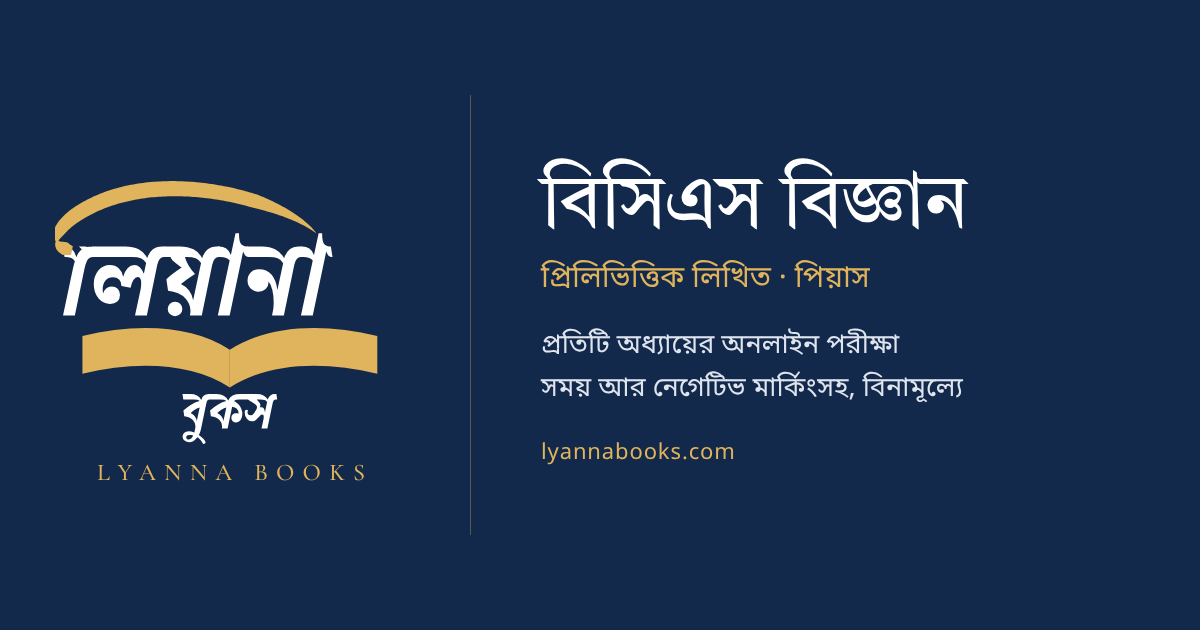
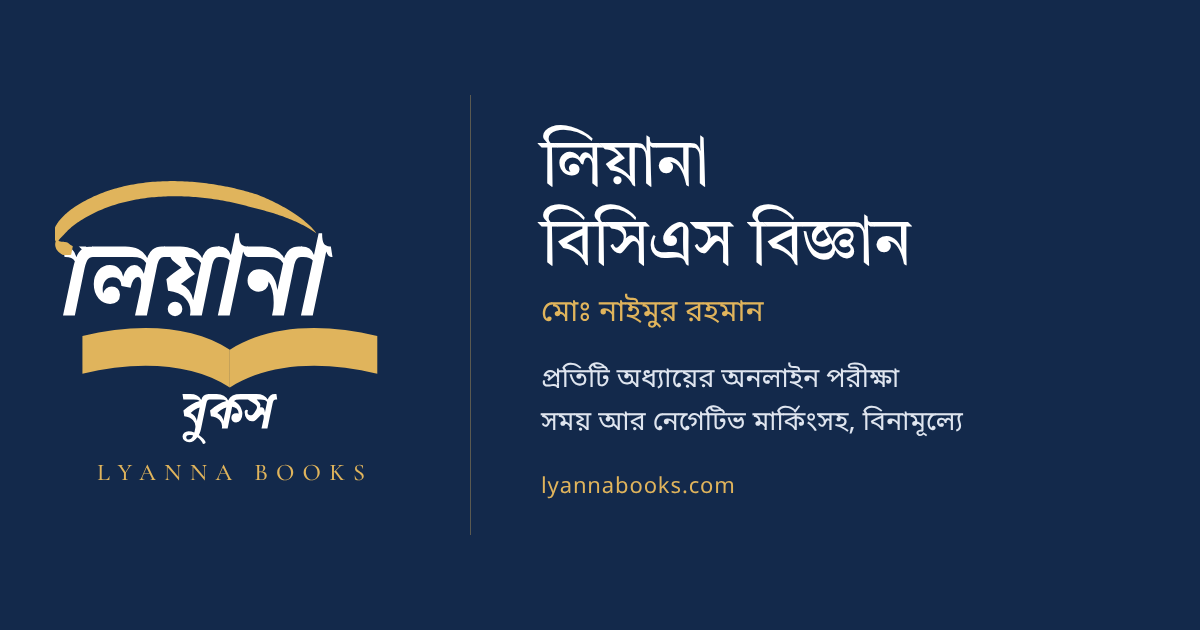
Home page: real book cover, book name লিয়ানা বিসিএস বিজ্ঞান, author মোঃ নাইমুর রহমান
Claude-Session: https://claude.ai/code/session_01Cu6FCiBSHDKpGcy4JYCviQ

Changed region(s): [[0.4317, 0.181, 0.8017, 0.7238], [0.4317, 0.754, 0.6167, 0.7841]]

diff --git a/index.html b/index.html
@@ -5,12 +5,12 @@
 <meta name="theme-color" content="#13294b">
 <meta name="viewport" content="width=device-width,initial-scale=1,viewport-fit=cover">
 <title>লিয়ানা বুকস · Lyanna Books</title>
-<meta name="description" content="লিয়ানা বুকস: বিসিএস বিজ্ঞান বই (লেখক পিয়াস) আর প্রতিটি অধ্যায়ের অনলাইন পরীক্ষা।">
+<meta name="description" content="লিয়ানা বুকস: লিয়ানা বিসিএস বিজ্ঞান বই (লেখক মোঃ নাইমুর রহমান) আর প্রতিটি অধ্যায়ের অনলাইন পরীক্ষা।">
 <link rel="canonical" href="https://lyannabooks.com/">
 <meta property="og:type" content="website">
 <meta property="og:site_name" content="লিয়ানা বুকস">
-<meta property="og:title" content="বিসিএস বিজ্ঞান · লিয়ানা বুকস">
-<meta property="og:description" content="প্রিলিভিত্তিক লিখিত বিসিএস বিজ্ঞান বই, লেখক পিয়াস। প্রতিটি অধ্যায়ের অনলাইন পরীক্ষা সময় আর নেগেটিভ মার্কিংসহ, বিনামূল্যে।">
+<meta property="og:title" content="লিয়ানা বিসিএস বিজ্ঞান · লিয়ানা বুকস">
+<meta property="og:description" content="লিয়ানা বিসিএস বিজ্ঞান বই, লেখক মোঃ নাইমুর রহমান। প্রতিটি অধ্যায়ের অনলাইন পরীক্ষা সময় আর নেগেটিভ মার্কিংসহ, বিনামূল্যে।">
 <meta property="og:url" content="https://lyannabooks.com/">
 <meta property="og:image" content="https://lyannabooks.com/img/og.png">
 <meta property="og:image:width" content="1200">
@@ -21,7 +21,7 @@
 <script type="application/ld+json">
 {"@context":"https://schema.org","@graph":[
 {"@type":"Organization","@id":"https://lyannabooks.com/#org","name":"লিয়ানা বুকস","alternateName":"Lyanna Books","url":"https://lyannabooks.com/","logo":"https://lyannabooks.com/img/logo/final-navy-square.png","contactPoint":{"@type":"ContactPoint","telephone":"+8801754119878","contactType":"customer service","availableLanguage":"bn"}},
-{"@type":"Book","name":"বিসিএস বিজ্ঞান","alternativeHeadline":"প্রিলিভিত্তিক লিখিত","inLanguage":"bn","author":{"@type":"Person","name":"পিয়াস"},"publisher":{"@id":"https://lyannabooks.com/#org"},"url":"https://lyannabooks.com/#book"}
+{"@type":"Book","name":"লিয়ানা বিসিএস বিজ্ঞান","inLanguage":"bn","image":"https://lyannabooks.com/img/cover.jpg","author":{"@type":"Person","name":"মোঃ নাইমুর রহমান","alternateName":"পিয়াস"},"publisher":{"@id":"https://lyannabooks.com/#org"},"url":"https://lyannabooks.com/#book"}
 ]}
 </script>
 <link rel="icon" href="img/logo/final-icon.svg" type="image/svg+xml">
@@ -71,10 +71,8 @@ h2 small{display:block;font-family:var(--body);font-size:14px;color:var(--muted)
 /* Book */
 .book{display:grid;grid-template-columns:150px 1fr;gap:22px;align-items:center;background:var(--card);border:1px solid var(--rule);border-radius:12px;padding:20px}
 @media (max-width:520px){.book{grid-template-columns:1fr;justify-items:center;text-align:center}}
-.cover{width:150px;aspect-ratio:3/4.2;border-radius:4px 8px 8px 4px;background:linear-gradient(135deg,#1b3766,#13294b);color:#fff;padding:16px 12px;display:flex;flex-direction:column;justify-content:space-between;box-shadow:inset 6px 0 0 rgba(0,0,0,.18),0 8px 20px rgba(0,0,0,.18)}
-.cover .t{font-family:var(--display);font-size:24px;line-height:1.25}
-.cover .s{font-size:12px;opacity:.85;line-height:1.4}
-.cover .a{font-family:var(--display);font-size:15px;color:#e0b45c;border-top:1px solid rgba(224,180,92,.5);padding-top:6px}
+.cover{display:block;width:150px;flex-shrink:0;align-self:flex-start}
+.cover img{display:block;width:100%;height:auto;border-radius:3px 6px 6px 3px;box-shadow:0 1px 2px rgba(0,0,0,.2),0 10px 24px rgba(19,41,75,.28)}
 .book h3{font-family:var(--display);font-weight:400;font-size:24px;margin:0}
 .book .by{color:var(--gold);margin:0 0 8px}
 .book ul{margin:0;padding-left:20px;color:var(--muted)}
@@ -174,18 +172,15 @@ footer .fb{font-family:var(--display);color:var(--ink);font-size:18px}
 <section id="book">
   <h2>আমাদের বই<small>প্রথম প্রকাশ</small></h2>
   <div class="book">
-    <div class="cover" aria-hidden="true">
-      <div><div class="t">বিসিএস বিজ্ঞান</div><div class="s">প্রিলিভিত্তিক লিখিত</div></div>
-      <div class="a">পিয়াস</div>
-    </div>
+    <picture class="cover"><source srcset="img/cover.webp" type="image/webp"><img src="img/cover.jpg" width="520" height="735" alt="লিয়ানা বিসিএস বিজ্ঞান বইয়ের প্রচ্ছদ" loading="lazy"></picture>
     <div>
-      <h3>বিসিএস বিজ্ঞান</h3>
-      <p class="by">লেখক: পিয়াস</p>
+      <h3>লিয়ানা বিসিএস বিজ্ঞান</h3>
+      <p class="by">লেখক: মোঃ নাইমুর রহমান</p>
       <ul>
+        <li>বিগত সব প্রশ্ন ঘেঁটে কোন টপিক বেশি, কোনটা কম গুরুত্বপূর্ণ</li>
+        <li>পরীক্ষার আগে অল্প সময়ে পুরো অধ্যায় রিভিশন</li>
+        <li>প্রতি অধ্যায় শেষে QR স্ক্যান করে টাইমারসহ পরীক্ষা</li>
         <li>এক বইয়ে প্রিলি আর লিখিত দুটোরই প্রস্তুতি</li>
-        <li>সহজ বাংলায় গুছিয়ে লেখা, দরকারি ইংরেজি পরিভাষাসহ</li>
-        <li>বিগত বিসিএস প্রশ্ন বাক্যে বাক্যে চিহ্নিত</li>
-        <li>প্রতিটি অধ্যায়ের শেষে QR কোডে অনলাইন পরীক্ষা</li>
       </ul>
       <span class="tag">শীঘ্রই আসছে · ডিসেম্বর ২০২৬</span>
     </div>
@@ -195,10 +190,10 @@ footer .fb{font-family:var(--display);color:var(--ink);font-size:18px}
 <section id="author">
   <h2>লেখক পরিচিতি</h2>
   <div class="about author">
-    <div class="avatar"><picture><source srcset="img/author.webp" type="image/webp"><img src="img/author.jpg" alt="পিয়াস" width="480" height="480" loading="lazy"></picture></div>
+    <div class="avatar"><picture><source srcset="img/author.webp" type="image/webp"><img src="img/author.jpg" alt="মোঃ নাইমুর রহমান" width="480" height="480" loading="lazy"></picture></div>
     <div>
-      <h3>পিয়াস</h3>
-      <p class="role">মোঃ নাইমুর রহমান<br>৪১তম বিসিএস (পরিবার পরিকল্পনা)</p>
+      <h3>মোঃ নাইমুর রহমান</h3>
+      <p class="role">(পিয়াস)<br>৪১তম বিসিএস (পরিবার পরিকল্পনা)</p>
       <p>৪১তম বিসিএসে পরিবার পরিকল্পনা ক্যাডারে যোগ দিয়ে বর্তমানে সেখানেই কর্মরত। বিসিএস পরীক্ষায় বিজ্ঞানে পেয়েছিলেন ৮০-এর বেশি নম্বর, আর সেই অভিজ্ঞতা থেকেই এই বই লেখার পরিকল্পনা আসে।</p>
       <p>ঢাকা রেসিডেন্সিয়াল মডেল কলেজের পর ইসলামিক ইউনিভার্সিটি অব টেকনোলজি (IUT) থেকে ইলেকট্রিক্যাল অ্যান্ড ইলেকট্রনিক ইঞ্জিনিয়ারিংয়ে বিএসসি করেছেন। প্রকৌশলের পড়াশোনা বিজ্ঞান সহজ করে বোঝানোর ভিত্তি গড়ে দিয়েছে।</p>
       <p>স্ত্রী আলিসা জাহান মেঘনা ৪৩তম বিসিএস কর ক্যাডারে কর্মরত। তাঁদের মেয়ে লিয়ানা।</p>
